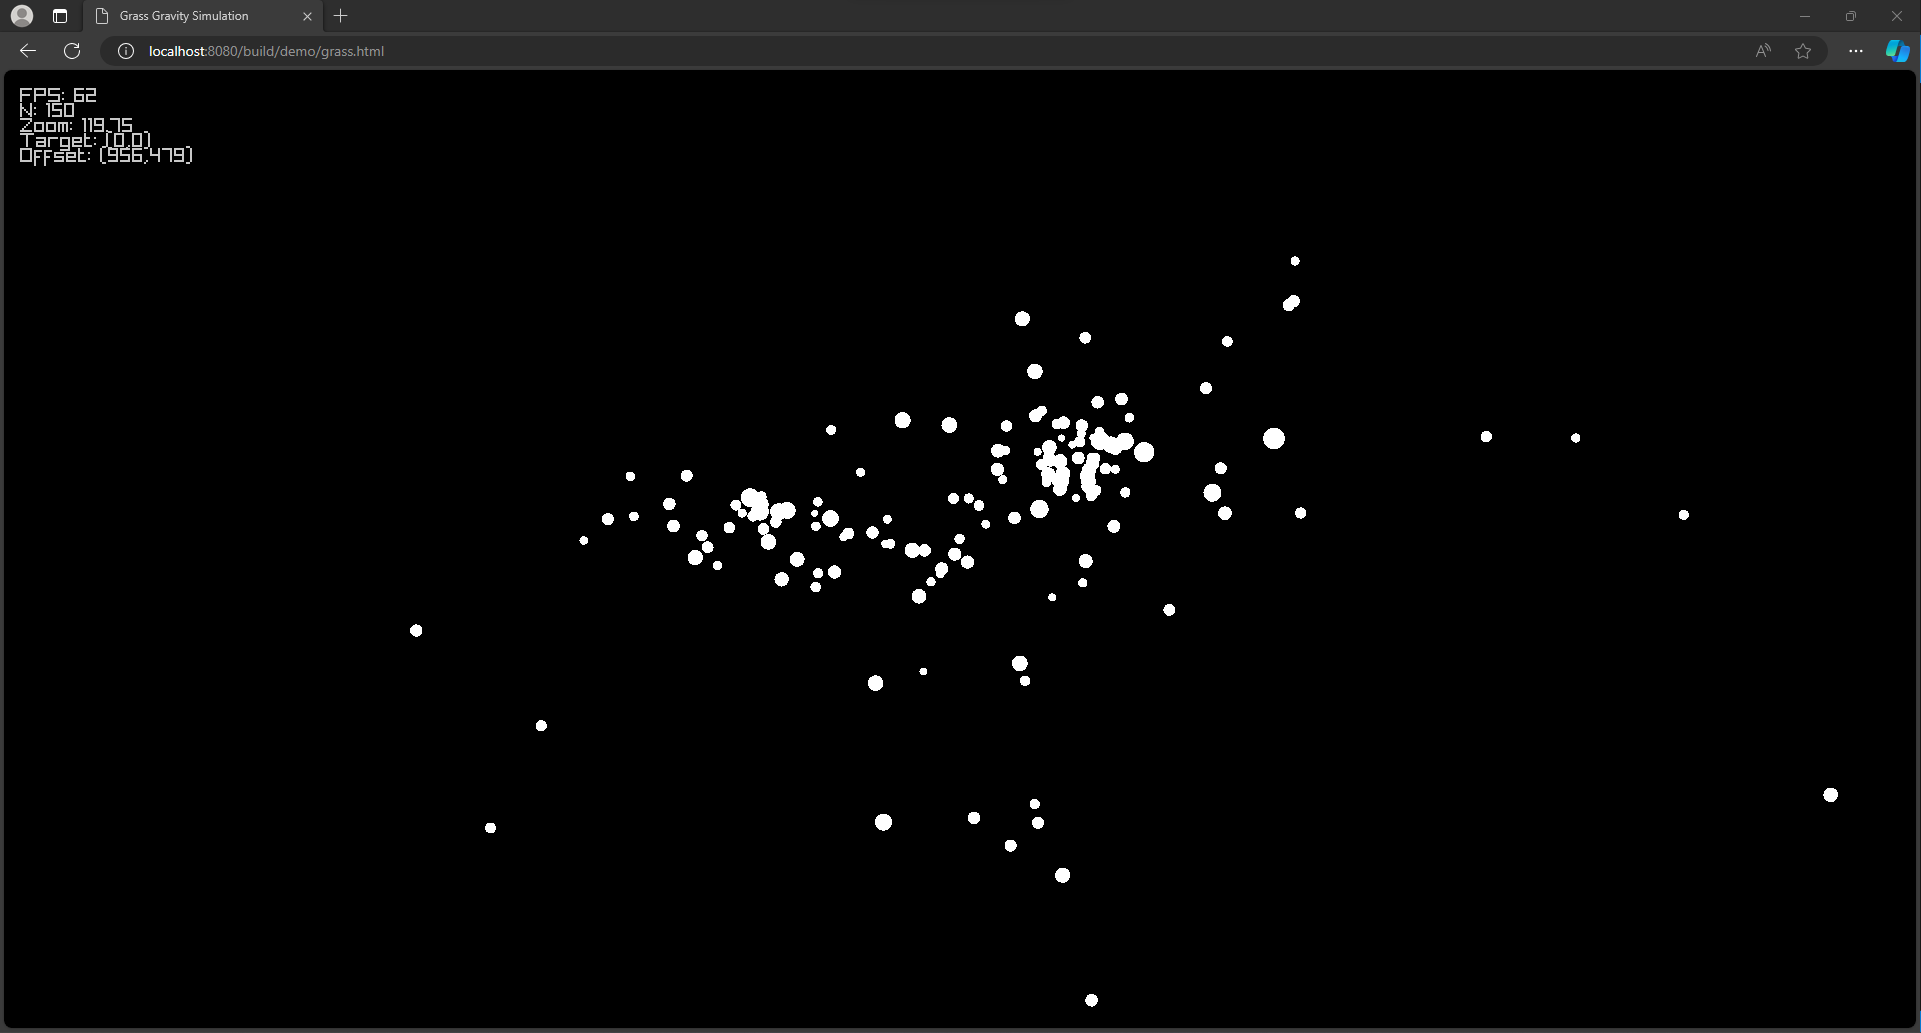
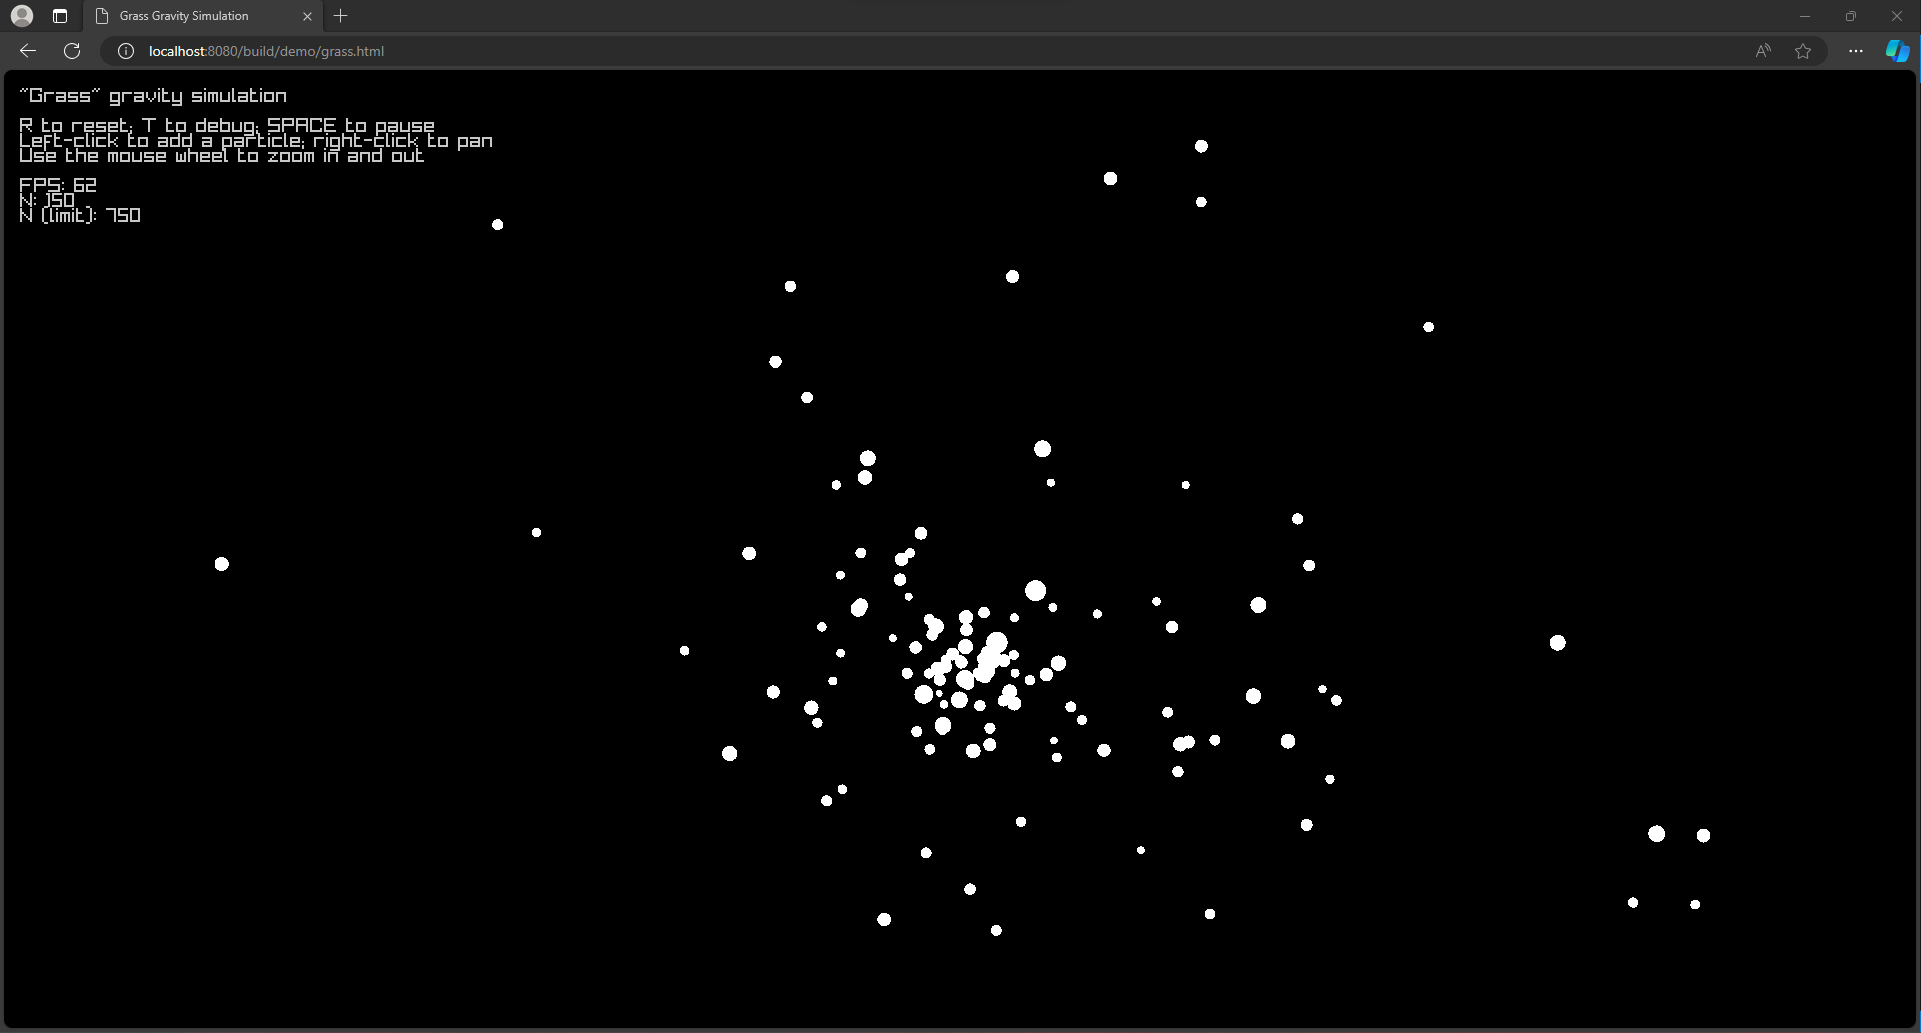
Change debug text; particle removal; galaxies

diff --git a/demo/user.h b/demo/user.h
@@ -30,18 +30,14 @@ struct User {
     bool fps : 1 {};
     bool n_particles : 1 {};
     bool cam : 1 {};
-    // Decide whether any flag is set.
-    [[nodiscard]] constexpr bool any() const {
-      return fps || n_particles || cam;
-    }
     // Rotate to the next option.
     constexpr void next() {
       if (!fps)
-        fps = n_particles = cam = true;
-      else if (!cam)
-        fps = n_particles = cam = false;
-      else
         fps = n_particles = true, cam = false;
+      else if (!cam)
+        fps = n_particles = cam = true;
+      else
+        fps = n_particles = cam = false;
     }
   } show;
 
@@ -110,25 +106,28 @@ struct User {
   }
 
   /// Write text.
-  void hud(auto n_particles) const {
+  void hud(auto n_particles, auto n_limit) const {
     // The standard library understands how to format a complex number, but,
     // understandably, knows nothing about Raylib's custom vector types.
     auto constexpr v2c = [](Vector2 v) {
       return std::complex<float>{v.x, v.y};
     };
     std::stringstream buf;
+    buf << "\"Grass\" gravity simulation\n\n";
     if (control.demo)
-      buf << "(Demo; click anywhere to add particles.)\n";
-    if (!show.any())
-      buf << "R to reset; T for debug";
+      buf << "(Demo; click anywhere to add particles)\n";
+    buf << "R to reset; T to debug; SPACE to pause\n"
+           "Left-click to add a particle; right-click to pan\n"
+           "Use the mouse wheel to zoom in and out\n\n";
     if (show.fps)
       buf << "FPS: " << GetFPS() << '\n';
     if (show.n_particles)
-      buf << "N: " << n_particles << '\n';
+      buf << "N: " << n_particles << '\n' << "N (limit): " << n_limit << '\n';
     if (show.cam)
       buf << "Zoom: " << cam.zoom << "\nTarget: " << v2c(cam.target)
           << "\nOffset: " << v2c(cam.offset) << '\n';
     auto str = buf.str();
+    DrawText(str.c_str(), 18, 18, 20, BLACK);
     DrawText(str.c_str(), 16, 16, 20, LIGHTGRAY);
   }
 

diff --git a/demo/main.cpp b/demo/main.cpp
@@ -79,7 +79,8 @@ static Table<Args...> galaxies(Constants constants) {
   using normal = std::normal_distribution<float>;
   using uniform = std::uniform_real_distribution<float>;
 
-  auto const L = constants.PARTICLES_LIMIT;
+  auto const div_ceil = [](auto a, auto b) { return a / b + !!(a % b); };
+  auto const L = div_ceil(constants.PARTICLES_LIMIT, size_t(5));
   std::mt19937 rng{std::random_device{}()};
   struct {
     lognormal axes{-0.5f, 0.5f}, number{}, radial{};
@@ -160,8 +161,11 @@ struct State {
       p.xy = xy.value();
       table.push_back(p);
 
-      if (table.size() > constants.PARTICLES_LIMIT)
-        table.erase(table.begin());
+      // If too many particles, remove a random particle.
+      if (table.size() > constants.PARTICLES_LIMIT) {
+        std::uniform_int_distribution<size_t> d{0, table.size()};
+        table.erase(table.begin() + d(rng));
+      }
 
       user.control.spawned_last_frame = true;
     } else {
@@ -194,7 +198,7 @@ struct State {
     EndMode2D();
 
     // Compose text and show it.
-    user.hud(table.size());
+    user.hud(table.size(), constants.PARTICLES_LIMIT);
     EndDrawing();
     return;
 
@@ -227,7 +231,7 @@ static int do_main() {
 
 #if defined(PLATFORM_WEB)
   state.constants.flags.galaxies = true;
-  state.constants.PARTICLES_LIMIT = 150;
+  state.constants.PARTICLES_LIMIT = 750;
   state.user = state.make_user();
   state.table = state.make_table();
   emscripten_set_main_loop(do_loop, 0, 1);
